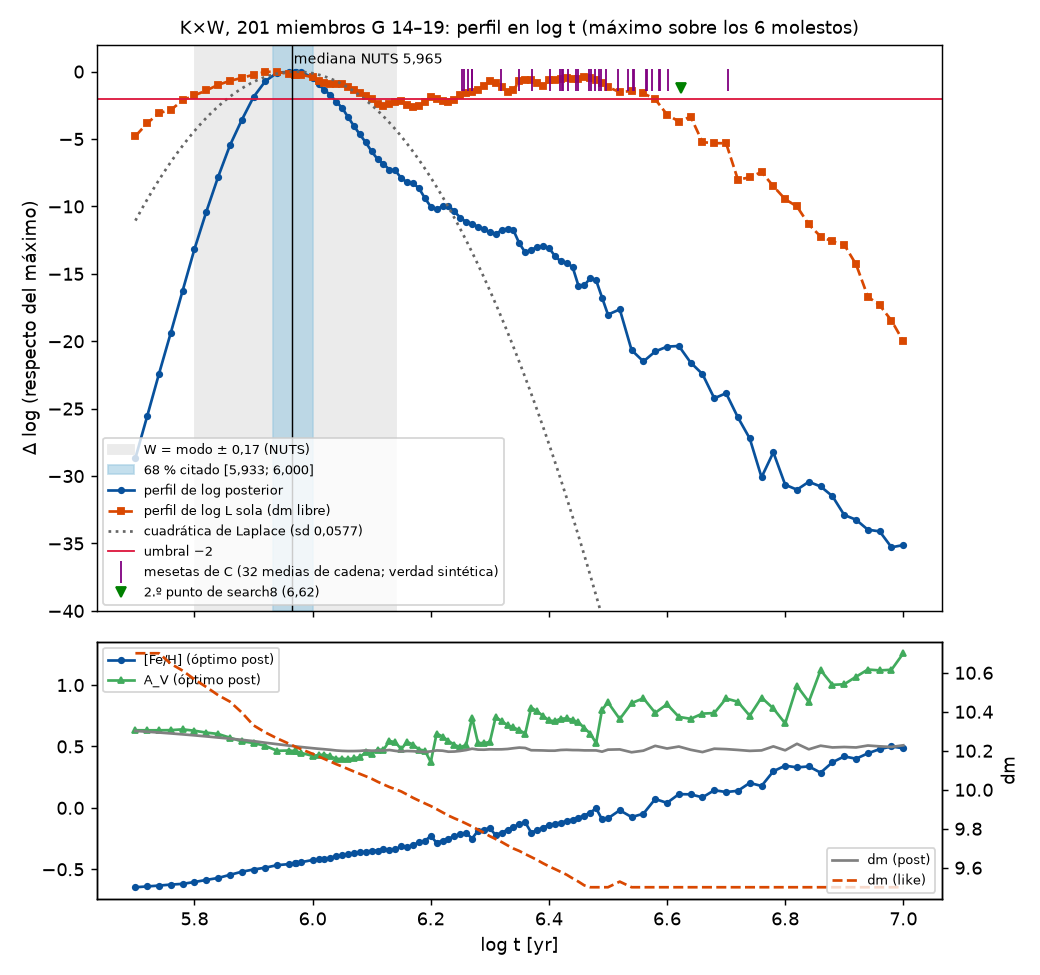
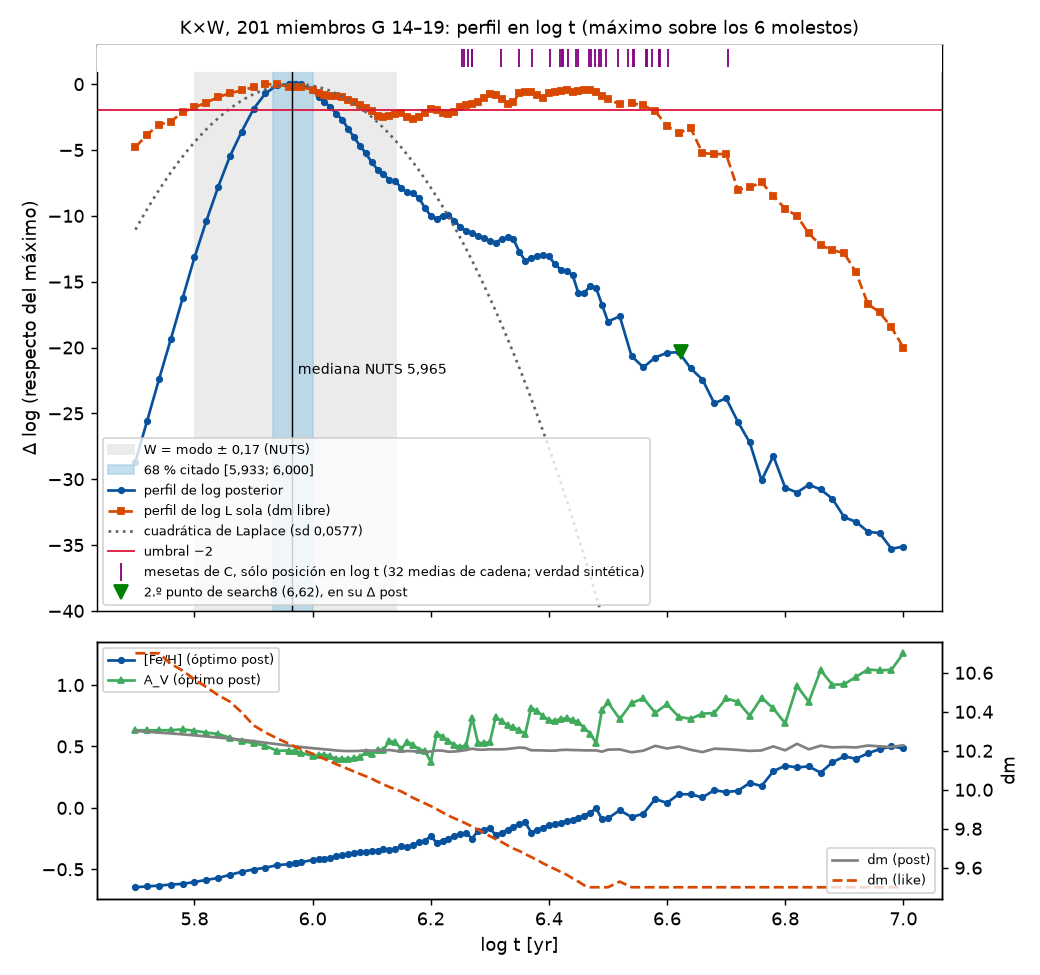
Modelo isocrona (19): figura del perfil con las mesetas de C y el segundo punto de search8 fuera del eje de valores (revision R68, hallazgo 4)

diff --git a/tools/validation/isochrone_modelfix/profile_loga.py b/tools/validation/isochrone_modelfix/profile_loga.py
@@ -362,11 +362,15 @@ def figure(t, P, L, res):
     a.plot(tq, -0.5 * ((tq - TMODE) / SD_LAPLACE) ** 2, ":", color="0.4", label="cuadrática de Laplace (sd 0,0577)")
     a.axhline(-2, color="crimson", lw=1, label="umbral −2")
     a.axvline(5.965, color="k", lw=0.8)
-    a.text(5.968, 0.6, "mediana NUTS 5,965", fontsize=8)
+    a.text(5.975, -22.0, "mediana NUTS 5,965", fontsize=8)
     c = [x for i in range(8) for x in np.load(HERE / "kw_runs" / f"C_{i}" / "draws.npz")["loga"].mean(1)]
-    a.plot(c, np.full(len(c), -0.6), "|", ms=12, color="purple", label="mesetas de C (32 medias de cadena; verdad sintética)")
-    a.plot([RUNNER[1]], [-1.2], "v", color="green", label="2.º punto de search8 (6,62)")
-    a.set_ylim(-40, 2)
+    a.axhspan(1.0, 3.0, color="white", zorder=3)
+    a.plot(c, np.full(len(c), 2.0), "|", ms=10, color="purple", zorder=4,
+           label="mesetas de C, sólo posición en log t (32 medias de cadena; verdad sintética)")
+    i62 = int(np.argmin(np.abs(t - RUNNER[1])))
+    a.plot([RUNNER[1]], [P[i62] - P.max()], "v", ms=8, color="green", zorder=5,
+           label="2.º punto de search8 (6,62), en su Δ post")
+    a.set_ylim(-40, 3)
     a.set_ylabel("Δ log (respecto del máximo)")
     a.legend(fontsize=7, loc="lower left")
     a.set_title("K×W, 201 miembros G 14–19: perfil en log t (máximo sobre los 6 molestos)", fontsize=10)
